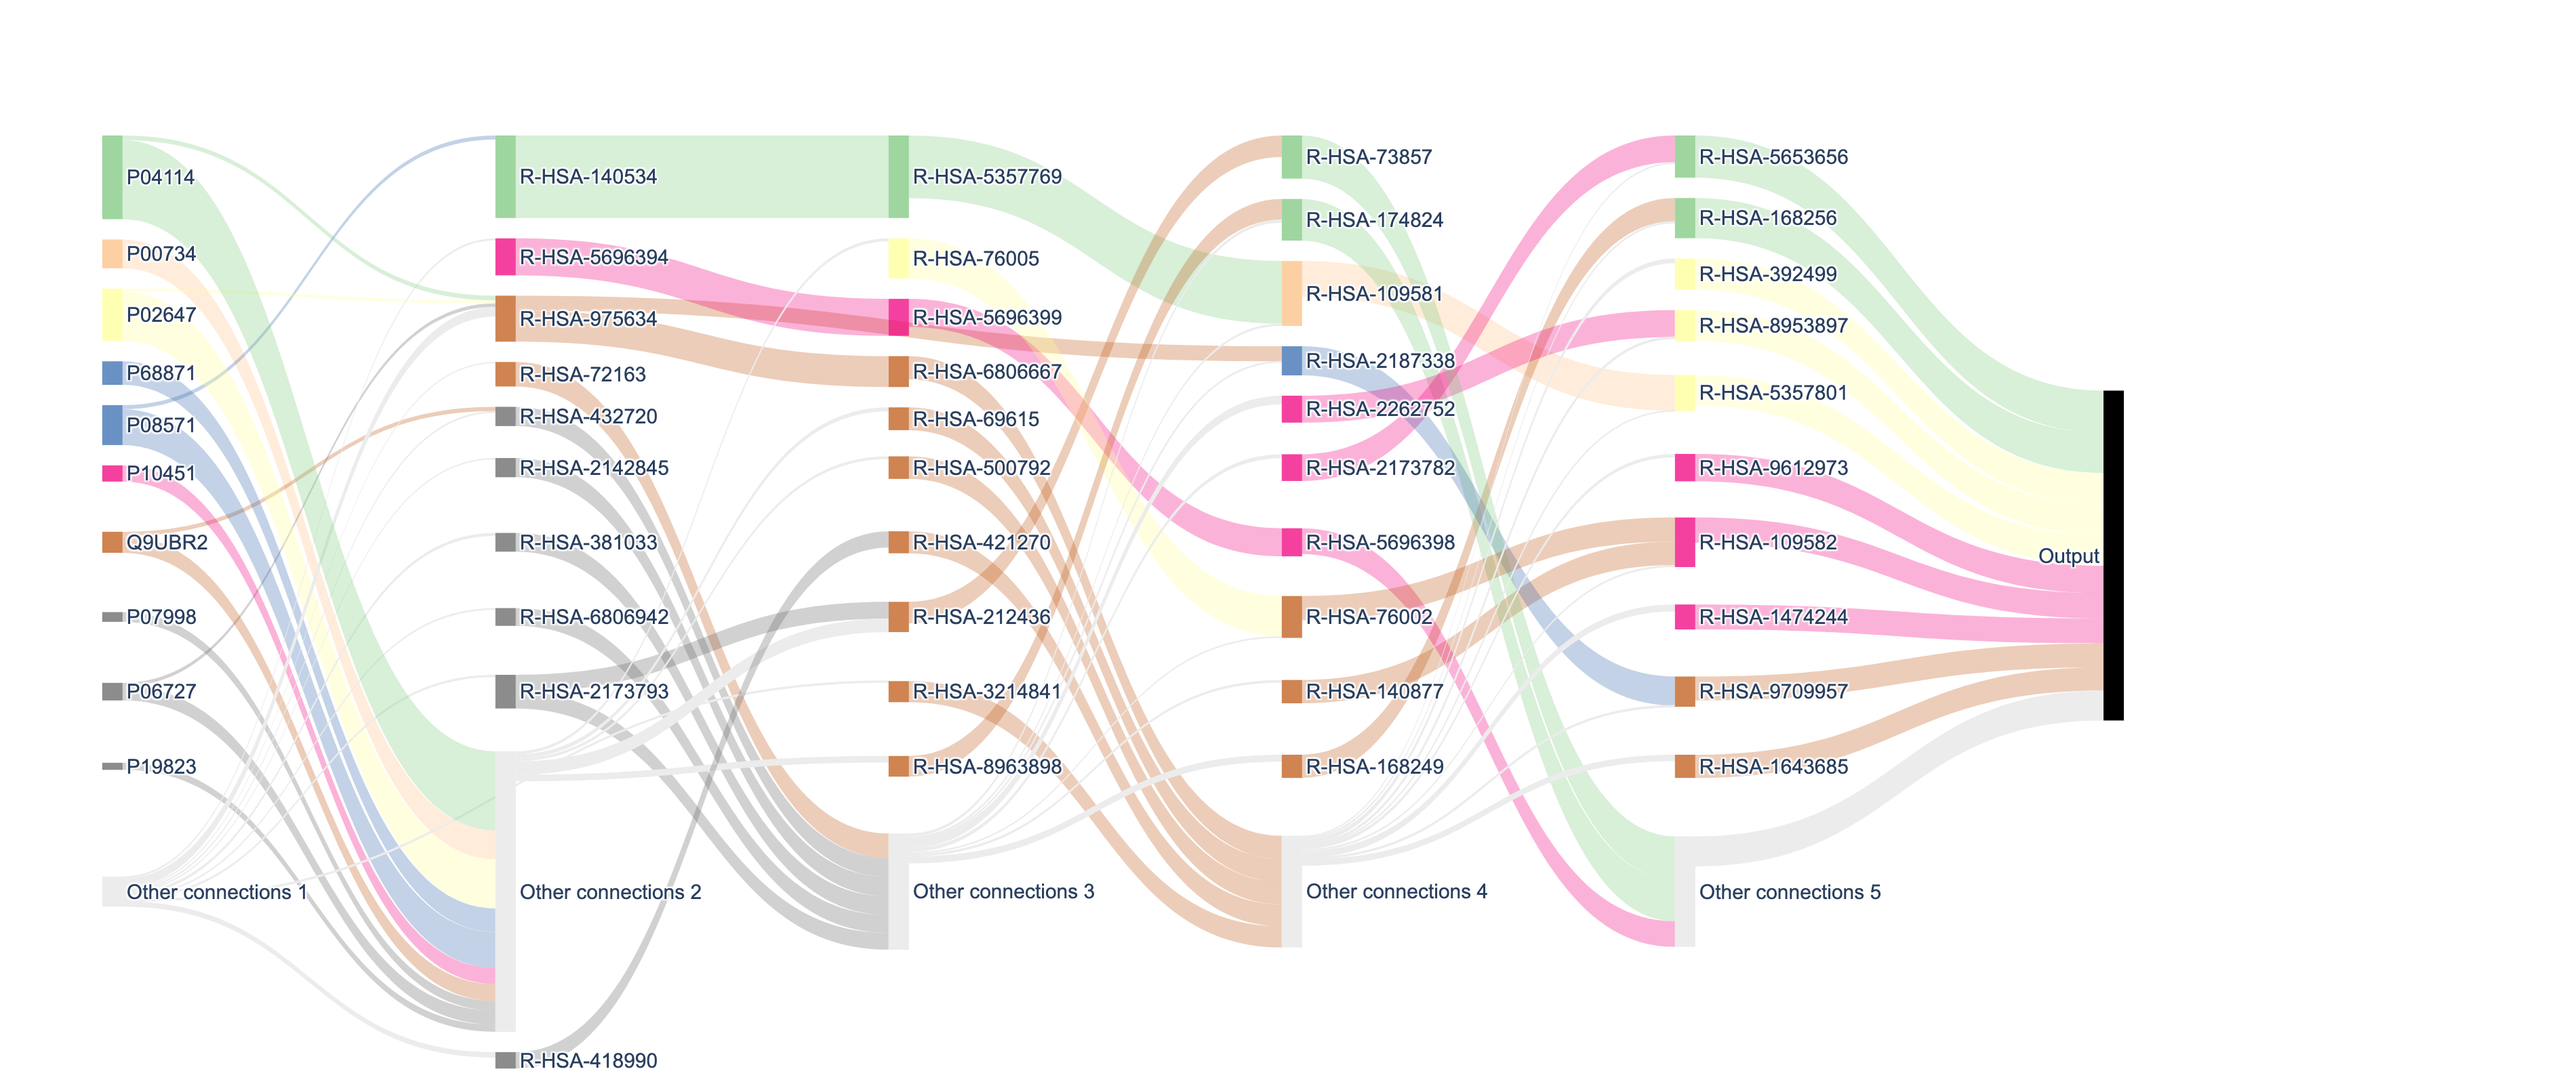
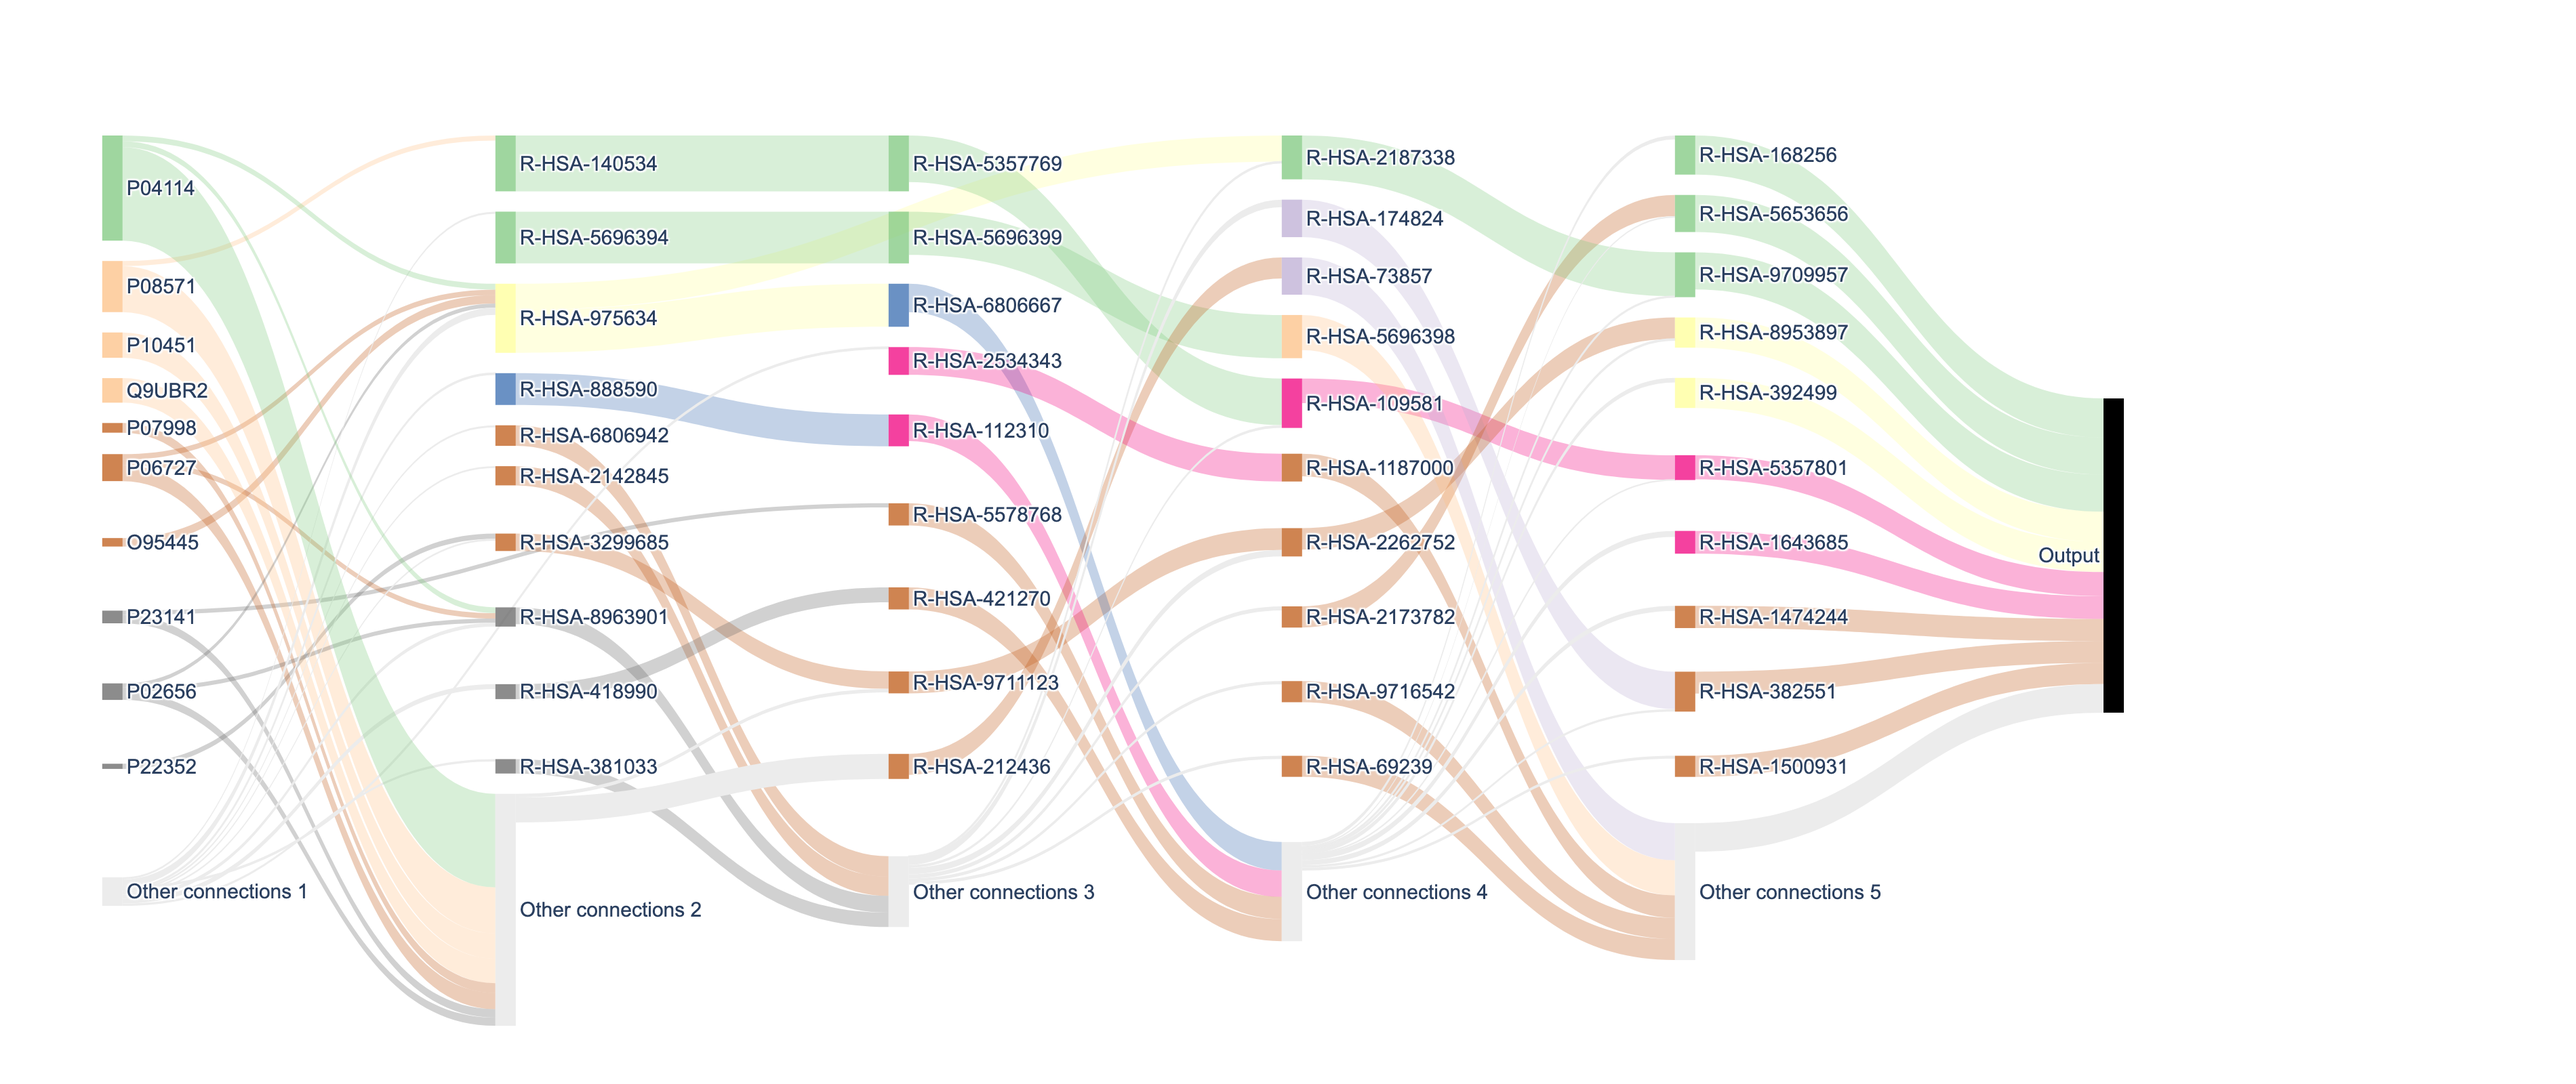
minor

Changed region(s): [[0.0311, 0.125, 0.8384, 0.9688], [0.1863, 0.9062, 0.2484, 1.0], [0.6832, 0.6875, 0.7142, 0.7188]]

diff --git a/docs/util_for_examples.py b/docs/util_for_examples.py
@@ -19,13 +19,15 @@ def fit_data_matrix_to_network_input(data_matrix: pd.DataFrame, features, featur
 
 def generate_data(data_matrix: pd.DataFrame, design_matrix: pd.DataFrame):
     GroupOneCols = design_matrix[design_matrix['group']
-                                 == 1]['sample'].values
+                                 == 1]['sample'].values.tolist()
     GroupTwoCols = design_matrix[design_matrix['group']
-                                 == 2]['sample'].values
+                                 == 2]['sample'].values.tolist()
 
-    df1 = data_matrix[GroupOneCols].T
-    df2 = data_matrix[GroupTwoCols].T
-    y = np.array([0 for _ in GroupOneCols] + [1 for _ in GroupTwoCols])
+    df1 = data_matrix[GroupOneCols].T.copy()
+    df2 = data_matrix[GroupTwoCols].T.copy()
+
     X = pd.concat([df1, df2]).fillna(0).to_numpy()
+    y = np.array([0 for _ in GroupOneCols] + [1 for _ in GroupTwoCols])
+    
     X = preprocessing.StandardScaler().fit_transform(X)
     return X, y

diff --git a/binn/plot.py b/binn/plot.py
@@ -213,12 +213,12 @@ def complete_sankey(
         conn = df[df["source_w_other"].isin(sources)].copy()
         source_code = [_get_code(s, code_map) for s in conn["source_w_other"]]
         target_code = [_get_code(s, code_map) for s in conn["target_w_other"]]
-        values = [v for v in conn["normalized value"]]
+        values = [v for v in conn["normalized value"]] * 10
         if multiclass == False:
             temp_df, _ = get_node_colors(feature_labels, df, curr_cmap=edge_cmap)
             link_colors = (
                 temp_df["node_color"]
-                .apply(lambda x: x.split(", 0.75)")[0] + ", 0.3)")
+                .apply(lambda x: x.split(", 0.75)")[0] + ", 0.75)")
                 .values.tolist()
             )
         else:
